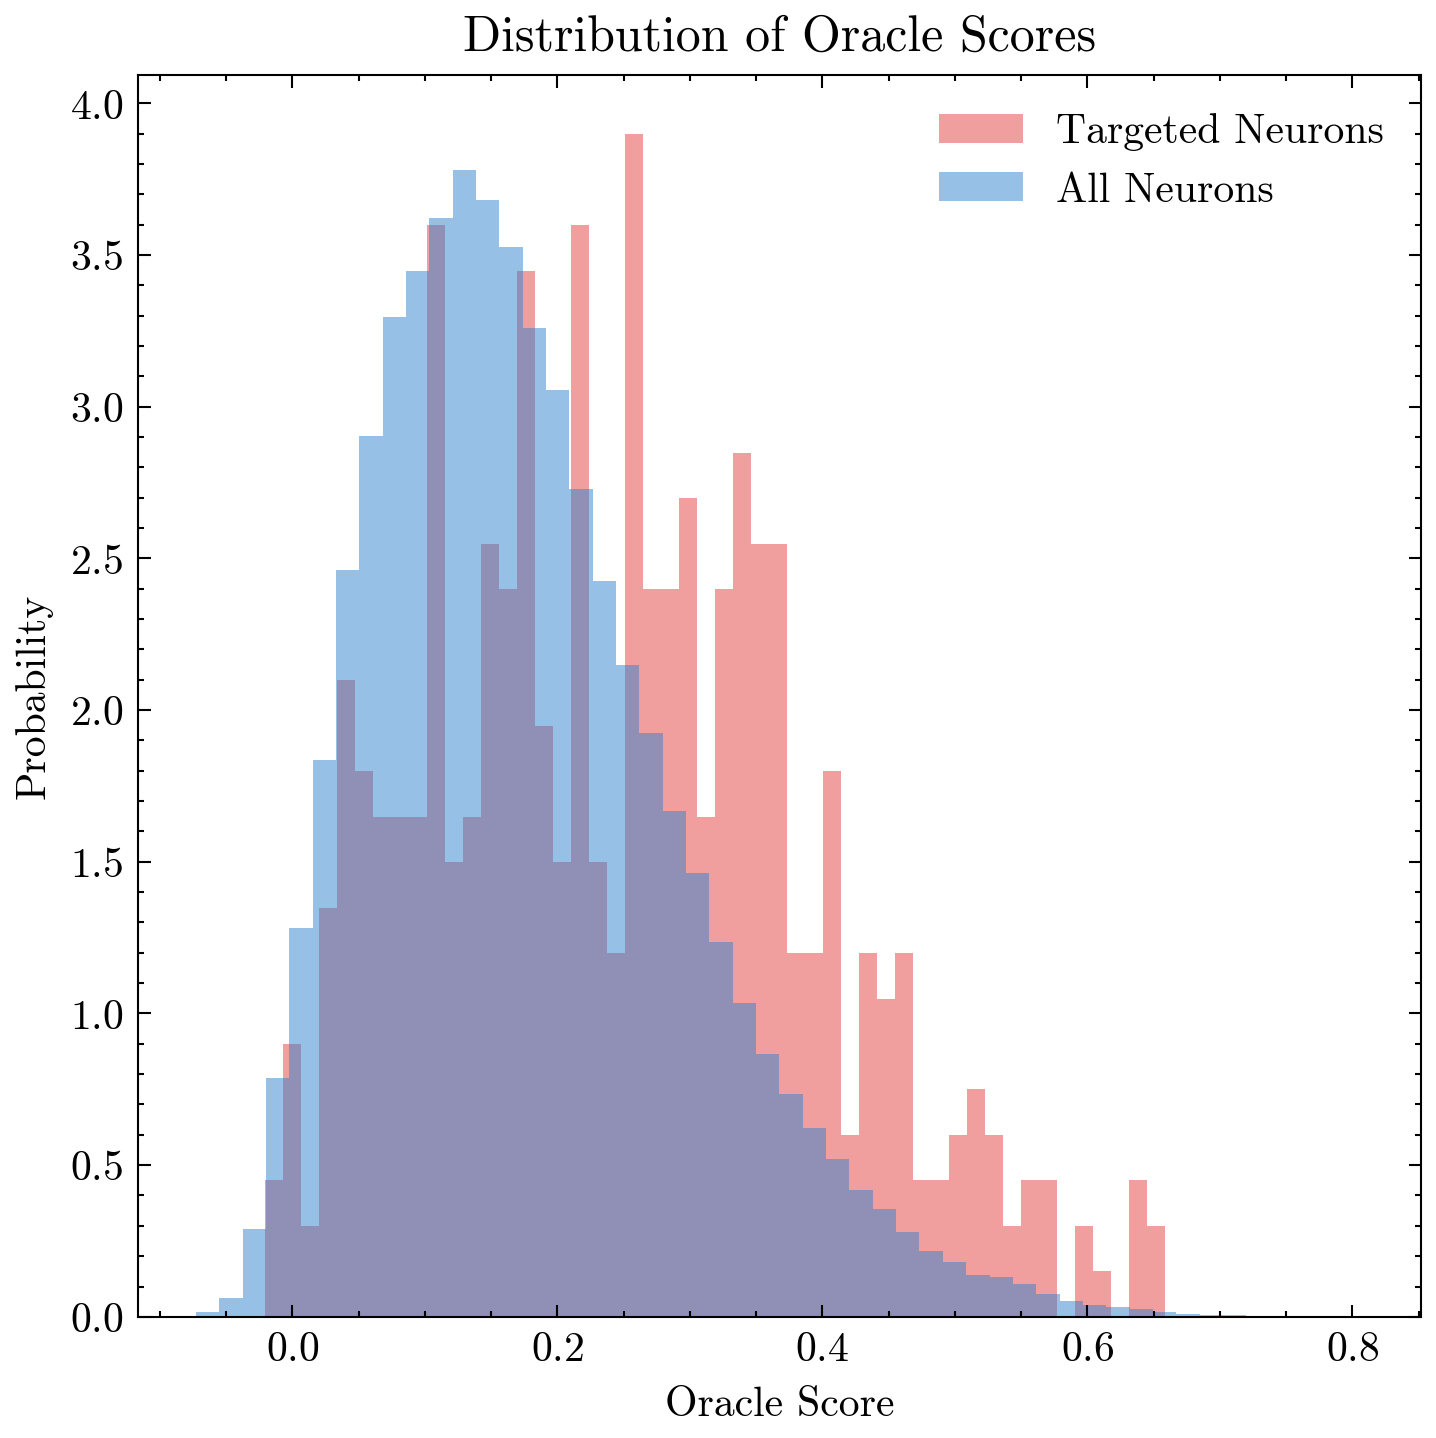
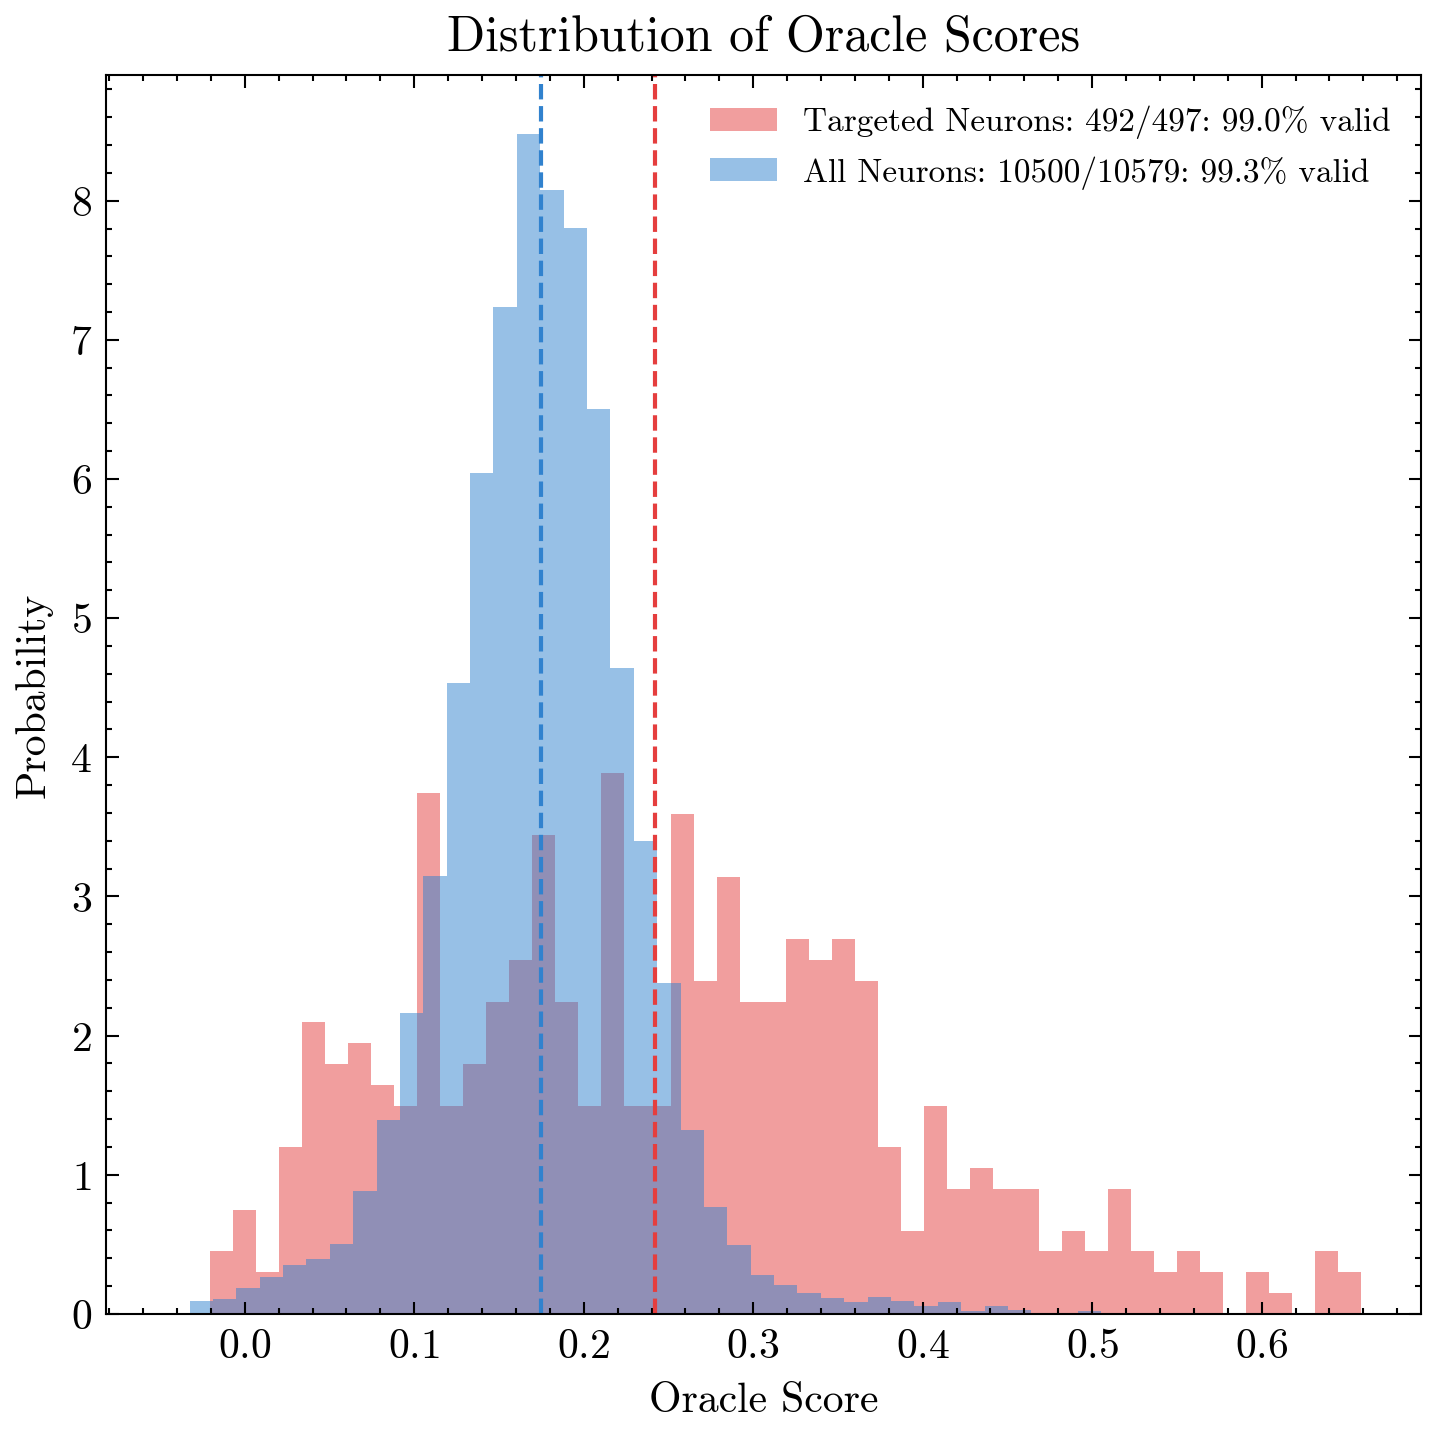
backup

diff --git a/summarize_data_across_scan.py b/summarize_data_across_scan.py
@@ -4,6 +4,7 @@ import os
 import scipy 
 import time
 import xarray as xr
+import sys
 
 import matplotlib.pyplot as plt 
 import scienceplots
@@ -217,6 +218,14 @@ def check_dale(matrix, mode="in"):
     elif mode == "out":
         for i in range(matrix.shape[0]):
             assert set(matrix[i,:]) == {-1, 0} or set(matrix[i,:]) == {1, 0} or set(matrix[i,:]) == {0}
+            
+def valid_stats(seq):
+    """Return count and proportion of finite values (not NaN/Inf)."""
+    a = np.asarray(seq, dtype=float)
+    mask = np.isfinite(a)
+    count_valid = int(mask.sum())
+    proportion_valid = count_valid / a.size if a.size else float("nan")
+    return count_valid, proportion_valid
 
 def summarize_data(ww, cc, ss, index, scan_specific, perturb=False, percent=0.1):
     """
@@ -315,7 +324,7 @@ def summarize_data(ww, cc, ss, index, scan_specific, perturb=False, percent=0.1)
     ax.set_zlabel("z (microns)")
     ax.view_init(elev=25, azim=35)
     fig.tight_layout()
-    fig.savefig("zz_bottleneck_spatial.png", dpi=300)
+    fig.savefig("./figures/zz_bottleneck_spatial.png", dpi=300)
     
     # histogram of cortical depth
     fig, ax = plt.subplots(figsize=(8,5))
@@ -332,12 +341,11 @@ def summarize_data(ww, cc, ss, index, scan_specific, perturb=False, percent=0.1)
     ax.set_ylabel("Count")
     ax.set_title("Distribution of Cortical Depth (z)")
     fig.tight_layout()
-    fig.savefig("zz_histogram_cortical_depth.png", dpi=300)
-    print("done")
+    fig.savefig("./figures/zz_histogram_cortical_depth.png", dpi=300)
     
     # register oracle score
     tag_oracle = {}
-    tag_all = []
+    tag_all_oracle = {}
     session_scan = [[5,3],[5,6],[5,7],[6,2],[7,3],[7,5],[9,3],[9,4],[6,4],[8,5],[4,7],[6,6],]
     for (session_info, scan_info) in session_scan:
         prf_coreg = pd.read_csv("./microns/prf_coreg.csv")
@@ -345,7 +353,11 @@ def summarize_data(ww, cc, ss, index, scan_specific, perturb=False, percent=0.1)
 
         save_filename = f"./microns/functional_xr/functional_session_{session_info}_scan_{scan_info}.nc"
         session_ds = xr.open_dataset(save_filename)
-        tag_all.extend(session_ds["oracle_score"].values)
+        for ni in range(len(session_ds["unit_id"].values)):
+            if not session_ds["unit_id"].values[ni] in tag_all_oracle.keys():
+                tag_all_oracle[session_ds["unit_id"].values[ni]] = [session_ds["oracle_score"].values[ni]]
+            else:
+                tag_all_oracle[session_ds["unit_id"].values[ni]].append(session_ds["oracle_score"].values[ni])
         for tag in tag_lst:
             tag = tag[0]
             matching_row = prf_coreg[prf_coreg["pt_root_id"] == tag]
@@ -359,21 +371,34 @@ def summarize_data(ww, cc, ss, index, scan_specific, perturb=False, percent=0.1)
                 assert unit_id == check_unitid
                 assert field == check_field
                 orc_score = session_ds["oracle_score"].values[unit_id-1]
-                tag_oracle[tag] = orc_score
+                if tag in tag_oracle.keys():
+                    tag_oracle[tag].append(orc_score)
+                else:
+                    tag_oracle[tag] = [orc_score]
 
+    tag_oracle = {float(k): float(np.nanmean(v)) for k, v in tag_oracle.items()}
+    tag_all_oracle = {float(k): float(np.nanmean(v)) for k, v in tag_all_oracle.items()}
     select_oracle = list(tag_oracle.values())
+    tag_all_oracle = list(tag_all_oracle.values())
+
+    select_valid = valid_stats(select_oracle)[0]
+    select_all = len(select_oracle)
+    all_valid = valid_stats(tag_all_oracle)[0]
+    all_all = len(tag_all_oracle)
     
     figorchist, axsorchist = plt.subplots(1,1,figsize=(5,5))
-    axsorchist.hist(select_oracle, bins=50, color=c_vals[0], alpha=0.5, density=True, label="Targeted Neurons")
-    axsorchist.hist(tag_all, bins=50, color=c_vals[1], alpha=0.5, density=True, label="All Neurons")
+    axsorchist.hist(select_oracle, bins=50, color=c_vals[0], alpha=0.5, density=True, label=f"Targeted Neurons: {select_valid}/{select_all}: {select_valid/select_all:.1%} valid")
+    axsorchist.hist(tag_all_oracle, bins=50, color=c_vals[1], alpha=0.5, density=True, label=f"All Neurons: {all_valid}/{all_all}: {all_valid/all_all:.1%} valid")
+    axsorchist.axvline(np.nanmedian(select_oracle), color=c_vals[0], linestyle='dashed', linewidth=1)
+    axsorchist.axvline(np.nanmedian(tag_all_oracle), color=c_vals[1], linestyle='dashed', linewidth=1)
+    print(np.nanmedian(select_oracle), np.nanmedian(tag_all_oracle))
     axsorchist.set_xlabel("Oracle Score")
     axsorchist.set_ylabel("Probability")
     axsorchist.set_title("Distribution of Oracle Scores")
-    axsorchist.legend()
+    axsorchist.legend(fontsize=8)
     figorchist.tight_layout()
-    figorchist.savefig("zz_histogram_oracle_scores.png", dpi=300)
-    print("done")
-    time.sleep(1000)
+    figorchist.savefig("./figures/zz_histogram_oracle_scores.png", dpi=300)
+    sys.exit()
 
     # plot for Euclidean MDS
     nonduplicate_connectome_corr = np.corrcoef(nonduplicate_connectome, rowvar=True)
@@ -407,7 +432,7 @@ def summarize_data(ww, cc, ss, index, scan_specific, perturb=False, percent=0.1)
     cb.ax.tick_params(labelsize=10)
 
     figmds.tight_layout(pad=0.5)
-    figmds.savefig(f"zz_mds_{search_string}_{index}.png", dpi=300)
+    figmds.savefig(f"./figures/zz_mds_{search_string}_{index}.png", dpi=300)
 
     if not perturb:
         scipy.io.savemat(f"{output_directory}/{search_string}_connectome_{index}.mat", {"connectome": nonduplicate_connectome, "tag": tag_lst})
@@ -448,7 +473,7 @@ def summarize_data(ww, cc, ss, index, scan_specific, perturb=False, percent=0.1)
                 sns.heatmap(base_corr, ax=axsr[0], cmap="coolwarm", cbar=True, square=True)
                 sns.heatmap(sanity_check, ax=axsr[1], cmap="coolwarm", cbar=True, square=True)
                 figr.tight_layout()
-                figr.savefig(f"zz_perturb{perturb_index}_{percent}_{index}.png", dpi=1000)
+                figr.savefig(f"./figures/zz_perturb{perturb_index}_{percent}_{index}.png", dpi=1000)
                 scipy.io.savemat(f"{output_directory}_perturb/{search_string}_perturb{perturb_index}_{percent}_{cnt}_connectome_{index}.mat", {"connectome": subsample_connectome, "tag": tag_lst})
                 cnt += 1
                 

diff --git a/microns_activity_search_from_activity.py b/microns_activity_search_from_activity.py
@@ -66,12 +66,15 @@ def all_run(R_max, embedding_dimension, raw_data, whethernoise, whetherconnectom
     neuron_eul_pref_in_lst = []
     neuron_eul_pref_out_lst = []
     for ss in session_scan:
-        metadata, neuron_eul_pref_in, neuron_eul_pref_out = run(ss[0], ss[1], for_construction, R_max=R_max, embedding_dimension=embedding_dimension, raw_data=raw_data, \
-            whethernoise=whethernoise, whetherconnectome=whetherconnectome, whethersubsample=whethersubsample, \
-            scan_specific=scan_specific, downsample_from_connectome=downsample_from_connectome, pendindex=pendindex, perturb=perturb, perturb_amount=perturb_amount)
-        
-        neuron_eul_pref_in_lst.append(neuron_eul_pref_in)
-        neuron_eul_pref_out_lst.append(neuron_eul_pref_out)
+        try: 
+            metadata, neuron_eul_pref_in, neuron_eul_pref_out = run(ss[0], ss[1], for_construction, R_max=R_max, embedding_dimension=embedding_dimension, raw_data=raw_data, \
+                whethernoise=whethernoise, whetherconnectome=whetherconnectome, whethersubsample=whethersubsample, \
+                scan_specific=scan_specific, downsample_from_connectome=downsample_from_connectome, pendindex=pendindex, perturb=perturb, perturb_amount=perturb_amount)
+            
+            neuron_eul_pref_in_lst.append(neuron_eul_pref_in)
+            neuron_eul_pref_out_lst.append(neuron_eul_pref_out)
+        except Exception as e:
+            print(f"Error occurred while processing session {ss[0]}, scan {ss[1]}: {e}")
 
     merged_perf_in = activity_helper.merge_dicts_list(neuron_eul_pref_in_lst)
     merged_perf_out = activity_helper.merge_dicts_list(neuron_eul_pref_out_lst)
@@ -260,9 +263,8 @@ def run(session_info, scan_info, for_construction, R_max, embedding_dimension, r
                 activity_extraction.append(session_ds["fluorescence"].values[unit_id-1,:])
                 activity_extraction_extra.append(session_ds["activity"].values[unit_id-1,:])
                 oracle_scores.append(session_ds["oracle_score"].values[unit_id-1])
-
-    print(oracle_scores)
-    time.sleep(1000)
+                
+    print(f"oracle_scores: {oracle_scores[:10]}")
     
     assert len(selected_neurons) == len(activity_extraction)
     print(len(selected_neurons))
@@ -330,7 +332,7 @@ def run(session_info, scan_info, for_construction, R_max, embedding_dimension, r
 
     metadata["gt_median_corr"] = gt_median_corr
     metadata["gt_mean_corr"] = gt_mean_corr
-    print(f"gt_median_corr: {gt_median_corr}; gt_mean_corr: {gt_mean_corr}")
+    print(f"gt_median_corr: {gt_median_corr:.2f}; gt_mean_corr: {gt_mean_corr:.2f}")
 
     binary_count, psd_count, syn_count, _ = helper.create_connectivity_as_whole(cell_table, synapse_table)
 
@@ -482,7 +484,7 @@ def run(session_info, scan_info, for_construction, R_max, embedding_dimension, r
         off_diagonal = relation_matrix[i != j]  
 
         p_value = activity_helper.stats_test(diagonal, off_diagonal)
-        print(f"P-value: {p_value}")
+        print(f"P-value: {p_value:2f}")
 
         p_values_all.append(p_value)
 
@@ -539,6 +541,7 @@ def run(session_info, scan_info, for_construction, R_max, embedding_dimension, r
     # delete all neurons if it is either nan or inf in any of the correlation matrices (row or column)
     neurons_tobe_deleted = activity_helper.merge_arrays(indices_delete_lst)
     print(f"Neurons union: {neurons_tobe_deleted}")
+    oracle_scores_filtered = [oracle_scores[i] for i in range(len(oracle_scores)) if i not in neurons_tobe_deleted]
 
     activity_extraction_extra_trc = np.delete(activity_extraction_extra, neurons_tobe_deleted, axis=0)
 
@@ -843,6 +846,7 @@ def run(session_info, scan_info, for_construction, R_max, embedding_dimension, r
                 pendindex += "_forall"
                 
             if not perturb: 
+                print(f"not perturb")
                 perturb_repeat = 1
                 hyp_names = [f"./mds-results-all/Rmax_{R_max}_D_2__{pendindex}_embed.mat"]
                 hypembed_names = [f"./mds-results-all/Rmax_{R_max}_D_2_microns__{pendindex}_embed_hypdist.mat"]
@@ -1129,6 +1133,14 @@ def run(session_info, scan_info, for_construction, R_max, embedding_dimension, r
                 summ.append(summ_rr)
 
             summ = np.array(summ)
+            if k == 0: 
+                oracle_dict = {"oracle_scores": oracle_scores_filtered, 
+                               "summ": summ
+                }
+                with open(f"./oracle_score_analysis/s{session_info}s{scan_info}.pkl", "wb") as file:
+                    pickle.dump(oracle_dict, file)
+
+                raise Exception("Oracle scores saved") 
 
             assert len(cell_indices_thisscan) == summ.shape[0]
             if k == 0: 
@@ -1441,7 +1453,7 @@ def benchmark_with_rnn(trial_index):
                             corr_with_c1.mean(), corr_with_c1_hypembed.mean(), corr_with_c1_eulembed.mean(), \
                             corr_with_c2.mean(), corr_with_c2_hypembed.mean(), corr_with_c2_eulembed.mean(), \
                         ])
-
+                
             summ = np.array(summ)
             medians = {}
             input_groups = [[0,1,4],[1,2,3],[4,5,6]]

diff --git a/oracles.py b/oracles.py
@@ -1,0 +1,101 @@
+import numpy as np 
+import os 
+import sys
+import pickle
+from sklearn.linear_model import LinearRegression
+from sklearn.metrics import r2_score
+
+import matplotlib.pyplot as plt
+import scienceplots
+plt.style.use('science')
+plt.style.use(['no-latex'])
+
+c_vals = ['#e53e3e', '#3182ce', '#38a169', '#805ad5', '#dd6b20', '#319795', '#718096', '#d53f8c', '#d69e2e', '#ff6347', '#4682b4', '#32cd32', '#9932cc', '#ffa500']
+
+def fit_and_evaluate(x_list, y_list, num_points=100):
+    """
+    """
+    x = np.array(x_list).reshape(-1, 1)
+    y = np.array(y_list)
+
+    # Fit model
+    model = LinearRegression()
+    model.fit(x, y)
+
+    # R^2 score
+    y_pred = model.predict(x)
+    r2 = r2_score(y, y_pred)
+
+    # Generate line for plotting
+    x_line = np.linspace(np.min(x), np.max(x), num_points).reshape(-1, 1)
+    y_line = model.predict(x_line)
+
+    return r2, x_line.flatten(), y_line
+
+
+if __name__ == "__main__":
+    directory = "./oracle_score_analysis/"
+    
+    all_oracle, all_activity, all_in, all_inhyp, all_out, all_outhyp, all_soma = [], [], [], [], [], [], []
+    for filename in os.listdir(directory):
+        if filename.endswith(".pkl"):
+            file_path = os.path.join(directory, filename)
+            print(f"Reading {file_path}...")
+
+            with open(file_path, "rb") as f:
+                data = pickle.load(f)
+                
+            all_oracle.extend(data["oracle_scores"])
+            all_activity.extend(data["summ"][:,0])
+            all_in.extend(data["summ"][:,1])
+            all_inhyp.extend(data["summ"][:,2])
+            all_out.extend(data["summ"][:,4])
+            all_outhyp.extend(data["summ"][:,5])
+            all_soma.extend(data["summ"][:,6])
+
+    all_oracle, all_activity, all_in, all_inhyp, all_out, all_outhyp, all_soma \
+        = np.array(all_oracle), np.array(all_activity), np.array(all_in), np.array(all_inhyp), np.array(all_out), np.array(all_outhyp), np.array(all_soma)
+    valid = ~np.isnan(all_oracle)
+    print(np.sum(valid))
+
+    fig, axs = plt.subplots(1,2,figsize=(4*2,4))
+    axs[0].scatter(all_oracle, all_activity, alpha=0.5, color=c_vals[0])
+    rr1, xx1, yy1 = fit_and_evaluate(all_oracle[valid], all_activity[valid])
+    axs[0].plot(xx1, yy1, color="black", label=fr"$R^2 = {rr1:.2f}$", linestyle="--")
+    axs[1].scatter(all_oracle, all_inhyp, alpha=0.5, color=c_vals[1])
+    rr2, xx2, yy2 = fit_and_evaluate(all_oracle[valid], all_inhyp[valid])
+    axs[1].plot(xx2, yy2, color="black", label=fr"$R^2 = {rr2:.2f}$", linestyle="--")
+    axs[0].set_ylabel("Predictability Using Activity Corr")
+    axs[1].set_ylabel("Predictability Using Hyp Embedding of Input Corr")
+    for ax in axs:
+        ax.set_xlabel("Oracle Scores")
+        ax.legend()
+    fig.tight_layout()
+    fig.savefig("./figures/oracle.png", dpi=300)
+    
+    fig, ax = plt.subplots(1,1,figsize=(4,4))
+    ax.hist(all_activity, bins=20, label="Activity", alpha=0.5, color=c_vals[0])
+    ax.hist(all_in, bins=20, label="In-degree", alpha=0.5, color=c_vals[1])
+    # ax.hist(all_out, bins=20, label="Out-degree", alpha=0.5, color=c_vals[2])
+    ax.hist(all_inhyp, bins=20, label="In-Hyp", alpha=0.5, color=c_vals[3])
+    # ax.hist(all_outhyp, bins=20, label="Out-Hyp", alpha=0.5, color=c_vals[4])
+    ax.legend()
+    fig.savefig("./figures/scattered_activity.png", dpi=300)
+    
+    fig, axs = plt.subplots(1,5,figsize=(4*5,4*1))
+    axs[0].scatter(all_soma, all_activity, alpha=0.5, color=c_vals[0])
+    axs[0].set_ylabel("Predictability Using Activity Corr")
+    axs[1].scatter(all_soma, all_inhyp, alpha=0.5, color=c_vals[1])
+    axs[1].set_ylabel("Predictability Using Hyp Embedding of Input Corr")
+    axs[2].scatter(all_soma, all_in, alpha=0.5, color=c_vals[2])
+    axs[2].set_ylabel("Predictability Using Input Corr")
+    axs[3].scatter(all_soma, all_outhyp, alpha=0.5, color=c_vals[3])
+    axs[3].set_ylabel("Predictability Using Hyp Embedding of Output Corr")
+    axs[4].scatter(all_soma, all_out, alpha=0.5, color=c_vals[4])
+    axs[4].set_ylabel("Predictability Using Out Corr")
+    for ax in axs.flatten():
+        ax.set_xlabel("Predictability Using Soma Distance")
+        ax.set_xlim([-0.1, 0.6])
+        ax.set_ylim([-0.1, 0.6])
+    fig.tight_layout()
+    fig.savefig("./figures/vs_soma.png", dpi=300)
